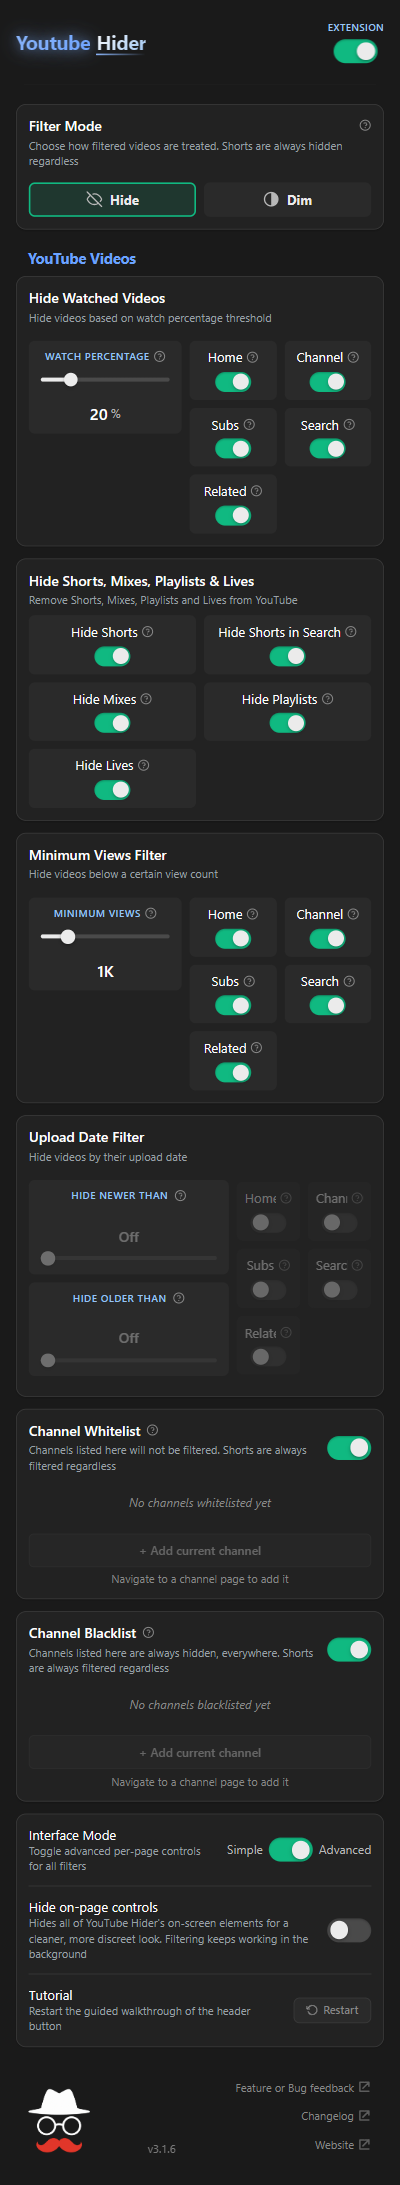
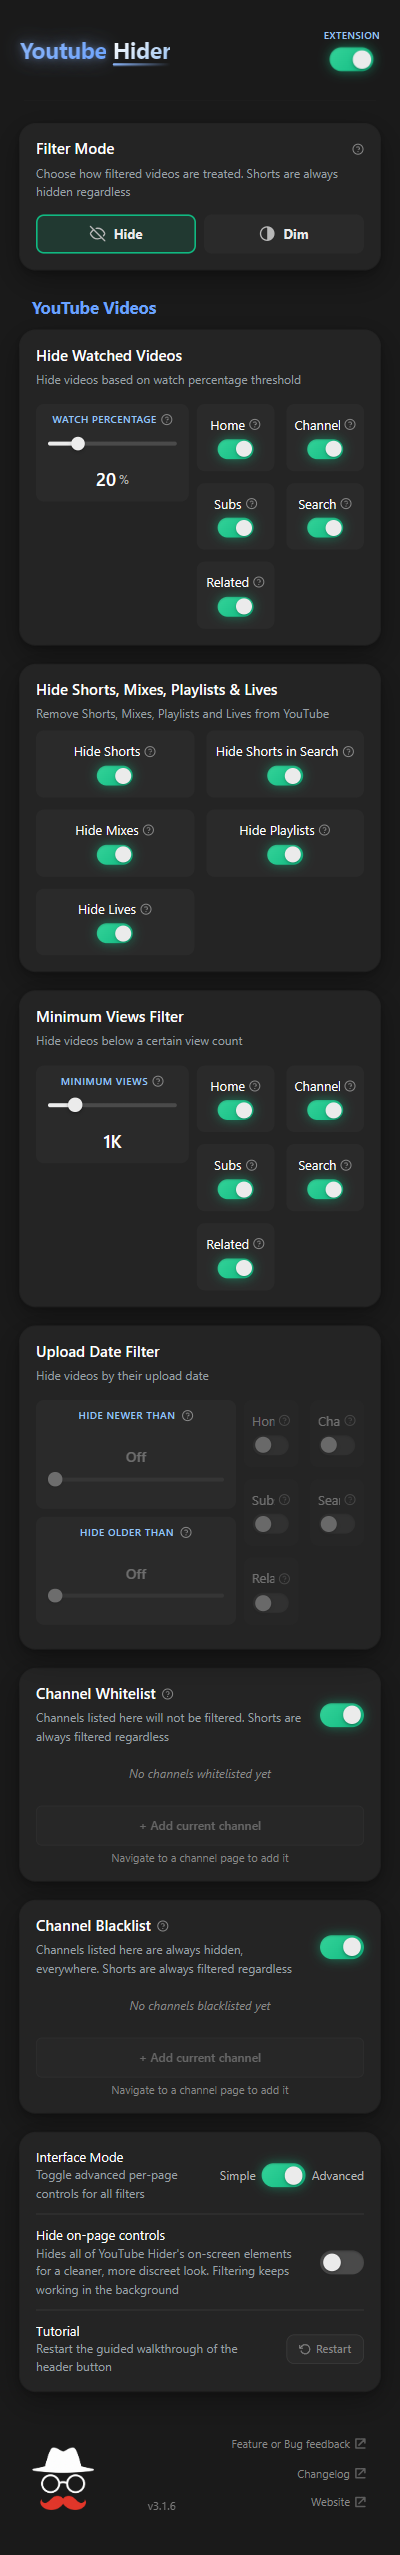
feat: update styles and dimensions for improved UI consistency; enhance tooltip and card designs

diff --git a/popup/base.css b/popup/base.css
@@ -1,6 +1,6 @@
 :root {
     --bg-primary: #1a1a1a;
-    --bg-secondary: #222222;
+    --bg-secondary: #242424;
     --bg-tertiary: #2a2a2a;
     --bg-quaternary: #313131;
     --text-primary: #ebebeb;
@@ -17,13 +17,15 @@
     --spacing-lg: 12px;
     --spacing-xl: 16px;
     --spacing-2xl: 20px;
-    --radius-sm: 5px;
-    --radius-md: 6px;
-    --radius-lg: 10px;
+    --spacing-3xl: 28px;
+    --radius-sm: 6px;
+    --radius-md: 8px;
+    --radius-lg: 16px;
     --radius-pill: 999px;
-    --shadow-xs: 0 1px 2px rgba(0, 0, 0, 0.20);
+    --shadow-card: 0 0 0 1px rgba(255, 255, 255, 0.05), 0 2px 8px rgba(0, 0, 0, 0.25), 0 10px 30px rgba(0, 0, 0, 0.35);
     --shadow-sm: 0 1px 2px rgba(0, 0, 0, 0.22), 0 2px 5px rgba(0, 0, 0, 0.20);
     --shadow-md: 0 4px 14px rgba(0, 0, 0, 0.32);
+    --shadow-glow-green: 0 0 12px rgba(16, 185, 129, 0.55);
     --ease-standard: cubic-bezier(0.4, 0, 0.2, 1);
     --ease-toggle: cubic-bezier(0.22, 1, 0.36, 1);
 }
@@ -60,8 +62,8 @@ body {
     background-color: var(--bg-primary);
     color: var(--text-primary);
     font-family: -apple-system, BlinkMacSystemFont, 'Segoe UI', Roboto, Oxygen, Ubuntu, Cantarell, sans-serif;
-    font-size: 13.5px;
-    line-height: 1.5;
+    font-size: 14px;
+    line-height: 1.55;
     width: 400px;
     min-height: 400px;
     overflow-x: hidden;
@@ -76,7 +78,7 @@ header {
     position: sticky;
     top: 0;
     z-index: 100;
-    padding: var(--spacing-2xl) var(--spacing-xl);
+    padding: var(--spacing-3xl) var(--spacing-2xl);
     display: flex;
     justify-content: space-between;
     align-items: center;
@@ -89,9 +91,9 @@ hr {
 }
 
 .header-title {
-    font-size: 20px;
+    font-size: 23px;
     font-weight: 700;
-    letter-spacing: -0.5px;
+    letter-spacing: -0.4px;
     margin: 0;
     display: inline-flex;
     align-items: center;
@@ -174,24 +176,24 @@ hr {
 }
 
 .content-wrapper {
-    padding: var(--spacing-lg) var(--spacing-xl) var(--spacing-2xl) var(--spacing-xl);
+    padding: var(--spacing-xl) var(--spacing-2xl) var(--spacing-3xl) var(--spacing-2xl);
 }
 
 .setting-section {
-    margin-bottom: var(--spacing-2xl);
+    margin-bottom: var(--spacing-3xl);
 }
 
 .section-header {
-    margin-bottom: var(--spacing-md);
+    margin-bottom: var(--spacing-lg);
 }
 
 .section-title {
-    font-size: 15px;
+    font-size: 17px;
     font-weight: 700;
     margin: 0;
     padding-left: var(--spacing-lg);
     color: #6ba3ff;
-    letter-spacing: -0.3px;
+    letter-spacing: -0.2px;
     text-transform: none;
 }
 

diff --git a/popup/cards.css b/popup/cards.css
@@ -1,11 +1,10 @@
 .setting-card {
     background-color: var(--bg-secondary);
-    border: 1px solid var(--border-color);
     border-radius: var(--radius-lg);
-    padding: var(--spacing-lg);
-    margin-bottom: var(--spacing-lg);
+    padding: var(--spacing-xl);
+    margin-bottom: var(--spacing-2xl);
     scroll-margin-top: calc(var(--yh-header-offset, 70px) + 12px);
-    box-shadow: var(--shadow-xs);
+    box-shadow: var(--shadow-card);
 }
 
 .setting-card-easy-mode {
@@ -18,9 +17,8 @@
 }
 
 .setting-card.yh-tour-highlight {
-    border-color: var(--accent-blue);
     box-shadow: 0 0 0 3px rgba(138, 180, 248, 0.35);
-    transition: border-color 0.2s ease, box-shadow 0.2s ease;
+    transition: box-shadow 0.2s ease;
     animation: yh-tour-highlight-in 300ms ease-out;
 }
 
@@ -64,7 +62,7 @@
     align-items: center;
     justify-content: center;
     gap: 8px;
-    padding: var(--spacing-sm) var(--spacing-md);
+    padding: var(--spacing-md) var(--spacing-lg);
     background: var(--bg-tertiary);
     border: 2px solid transparent;
     border-radius: var(--radius-md);
@@ -93,7 +91,7 @@
     display: inline-flex;
     align-items: center;
     gap: 5px;
-    padding: var(--spacing-sm) var(--spacing-lg);
+    padding: var(--spacing-md) var(--spacing-lg);
     font-size: 11px;
     font-weight: 500;
     color: var(--text-tertiary);
@@ -204,17 +202,17 @@
 }
 
 .card-title {
-    font-size: 14px;
+    font-size: 15px;
     font-weight: 600;
-    margin: 0 0 var(--spacing-xs) 0;
+    margin: 0 0 var(--spacing-sm) 0;
     color: #ffffff;
 }
 
 .card-description {
-    font-size: 11px;
+    font-size: 12px;
     color: #9aa0a6;
     margin: 0;
-    line-height: 1.4;
+    line-height: 1.5;
 }
 
 .setting-group {
@@ -345,7 +343,7 @@
 }
 
 .slider-value {
-    font-size: 16px;
+    font-size: 18px;
     font-weight: 600;
     color: #ffffff;
     text-align: center;

diff --git a/popup/toggles.css b/popup/toggles.css
@@ -1,7 +1,7 @@
 .toggle-grid {
     display: grid;
     grid-template-columns: repeat(2, 1fr);
-    gap: var(--spacing-md);
+    gap: var(--spacing-lg);
     flex: 1;
     align-items: stretch;
 }
@@ -49,11 +49,11 @@
     flex-direction: column;
     align-items: center;
     justify-content: center;
-    padding: var(--spacing-md) var(--spacing-md);
+    padding: var(--spacing-lg) var(--spacing-md);
     gap: var(--spacing-sm);
     user-select: none;
     width: 100%;
-    min-height: 50px;
+    min-height: 58px;
     min-width: 0;
 }
 
@@ -137,12 +137,10 @@
     box-shadow: var(--shadow-md);
 }
 
-.toggle-switch input:checked+.toggle-slider {
-    background-color: var(--accent-green);
-}
-
+.toggle-switch input:checked+.toggle-slider,
 .toggle-switch-large input:checked+.toggle-slider {
-    background-color: var(--accent-green);
+    background: linear-gradient(135deg, #34d399 0%, var(--accent-green) 100%);
+    box-shadow: inset 0 1px 2px rgba(0, 0, 0, 0.15), var(--shadow-glow-green);
 }
 
 .toggle-switch input:checked+.toggle-slider:before {
@@ -169,8 +167,8 @@
     flex-direction: row;
     justify-content: space-between;
     align-items: flex-end;
-    padding: var(--spacing-md) var(--spacing-md);
-    margin-top: var(--spacing-md);
+    padding: var(--spacing-lg) var(--spacing-md);
+    margin-top: var(--spacing-lg);
 }
 
 .footer-logo {

diff --git a/popup/filters.css b/popup/filters.css
@@ -28,12 +28,12 @@
 
 .tooltip-text {
     visibility: hidden;
-    width: 160px;
+    width: 170px;
     background-color: var(--bg-quaternary);
     color: var(--text-primary);
     text-align: center;
     border-radius: var(--radius-sm);
-    padding: 8px;
+    padding: 10px;
     position: absolute;
     z-index: 1000;
     bottom: 125%;
@@ -202,7 +202,7 @@
     justify-content: center;
     gap: 6px;
     margin: 0 auto;
-    padding: 6px 12px;
+    padding: 8px 14px;
     border-radius: var(--radius-sm);
     background-color: rgba(239, 68, 68, 0.12);
     border: 1px solid rgba(239, 68, 68, 0.35);
@@ -308,11 +308,11 @@ body.easy-mode-off .date-filter-group .date-overlap-warning {
 .whitelist-chip {
     display: inline-flex;
     align-items: center;
-    gap: 4px;
+    gap: 5px;
     background: var(--bg-tertiary);
     border: 1px solid var(--border-color);
     border-radius: var(--radius-pill);
-    padding: 2px 8px 2px 10px;
+    padding: 4px 10px 4px 12px;
     max-width: 220px;
     transition: border-color 0.2s var(--ease-standard);
 }
@@ -365,7 +365,7 @@ body.easy-mode-off .date-filter-group .date-overlap-warning {
 
 .add-channel-btn {
     width: 100%;
-    padding: 7px 12px;
+    padding: 10px 14px;
     font-size: 12px;
     font-weight: 500;
     color: var(--text-secondary);